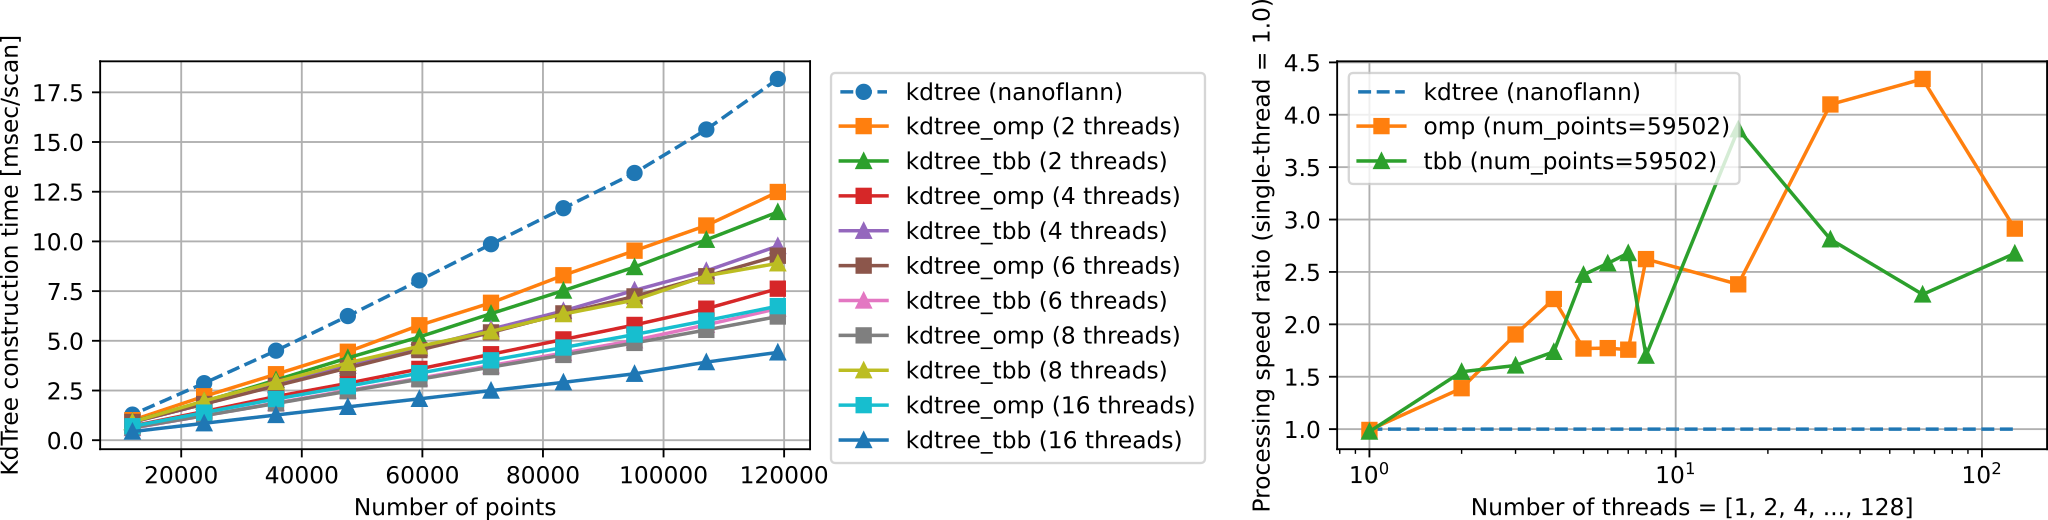
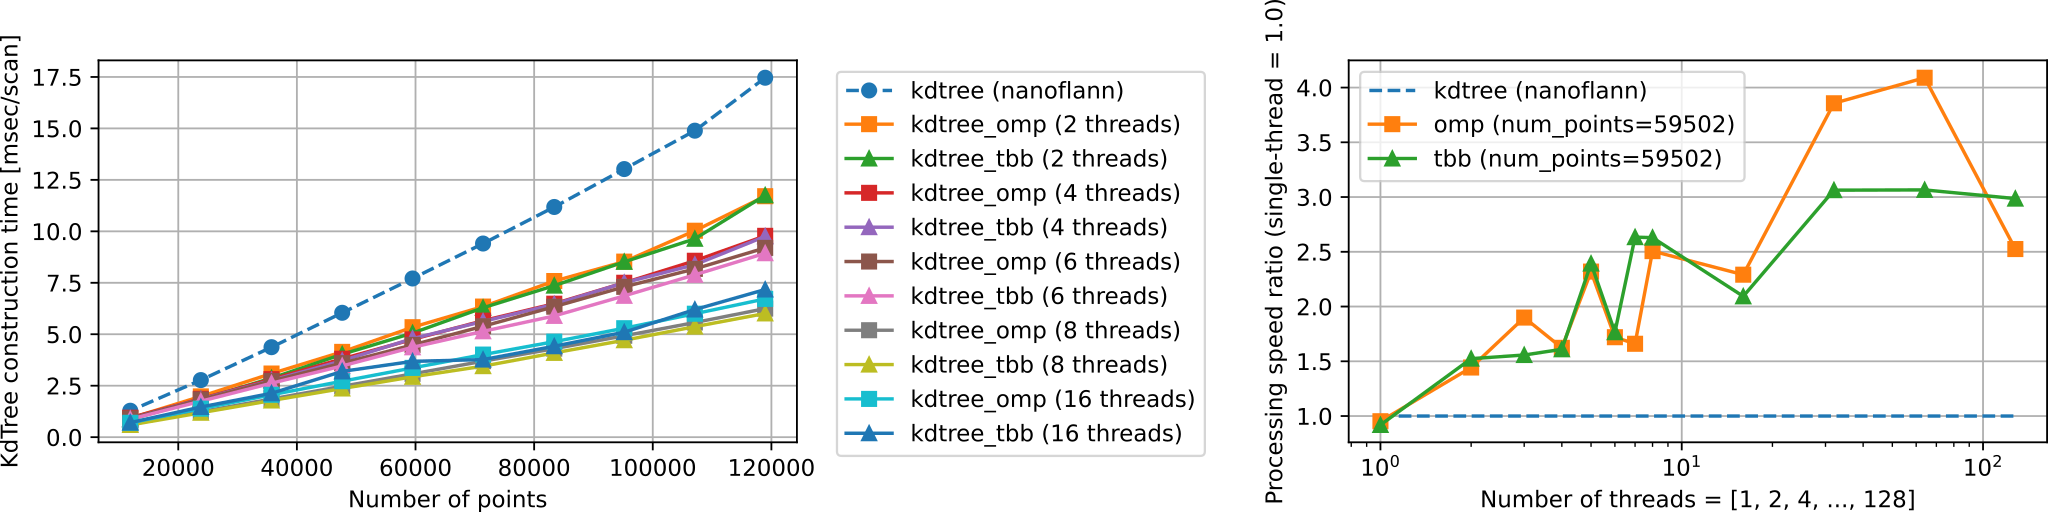
update benchmark_kdtree

Changed region(s): [[0.0, 0.0, 1.0, 1.0], [0.7188, 0.9375, 0.9375, 1.0], [0.8125, 0.875, 0.8438, 0.9375]]

diff --git a/src/kdtree_benchmark.cpp b/src/kdtree_benchmark.cpp
@@ -14,7 +14,7 @@ int main(int argc, char** argv) {
     std::cout << "USAGE: kdtree_benchmark <dataset_path>" << std::endl;
     std::cout << "OPTIONS:" << std::endl;
     std::cout << "  --num_threads <value> (default: 4)" << std::endl;
-    std::cout << "  --downsampling_resolution <value> (default: 0.25)" << std::endl;
+    std::cout << "  --method <str> (small|tbb|omp)" << std::endl;
     return 0;
   }
 
@@ -22,13 +22,16 @@ int main(int argc, char** argv) {
 
   int num_threads = 4;
   int num_trials = 100;
+  std::string method = "small";
 
-  for (int i = 0; i < argc; i++) {
+  for (int i = 1; i < argc; i++) {
     const std::string arg = argv[i];
     if (arg == "--num_threads") {
       num_threads = std::stoi(argv[i + 1]);
     } else if (arg == "--num_trials") {
       num_trials = std::stoi(argv[i + 1]);
+    } else if (arg == "--method") {
+      method = argv[i + 1];
     } else if (arg.size() >= 2 && arg.substr(0, 2) == "--") {
       std::cerr << "unknown option: " << arg << std::endl;
       return 1;
@@ -38,6 +41,7 @@ int main(int argc, char** argv) {
   std::cout << "dataset_path=" << dataset_path << std::endl;
   std::cout << "num_threads=" << num_threads << std::endl;
   std::cout << "num_trials=" << num_trials << std::endl;
+  std::cout << "method=" << method << std::endl;
 
   tbb::global_control tbb_control(tbb::global_control::max_allowed_parallelism, num_threads);
 
@@ -93,55 +97,60 @@ int main(int argc, char** argv) {
   std::cout << "---" << std::endl;
 
   // warmup
-  for (int i = 0; i < 10; i++) {
+  auto t1 = std::chrono::high_resolution_clock::now();
+  while (std::chrono::duration_cast<std::chrono::seconds>(std::chrono::high_resolution_clock::now() - t1).count() < 1) {
     auto downsampled = voxelgrid_sampling(*raw_points, 0.1);
-    UnsafeKdTree<PointCloud> tree(*downsampled);
-    UnsafeKdTreeTBB<PointCloud> tree_tbb(*downsampled);
-    UnsafeKdTreeOMP<PointCloud> tree_omp(*downsampled, num_threads);
+
+    if (method == "small") {
+      UnsafeKdTree<PointCloud> tree(*downsampled);
+    } else if (method == "tbb") {
+      UnsafeKdTreeTBB<PointCloud> tree(*downsampled);
+    } else if (method == "omp") {
+      UnsafeKdTreeOMP<PointCloud> tree(*downsampled, num_threads);
+    }
   }
 
   Stopwatch sw;
-  for (size_t i = 0; i < downsampling_resolutions.size(); i++) {
-    if (num_threads != 1) {
-      break;
+
+  if (method == "small") {
+    for (size_t i = 0; i < downsampling_resolutions.size(); i++) {
+      if (num_threads != 1) {
+        break;
+      }
+
+      Summarizer kdtree_times(true);
+      sw.start();
+      for (size_t j = 0; j < num_trials; j++) {
+        UnsafeKdTree<PointCloud> tree(*downsampled[i]);
+        sw.lap();
+        kdtree_times.push(sw.msec());
+      }
+      std::cout << "kdtree_times=" << kdtree_times.str() << " [msec]" << std::endl;
     }
+  } else if (method == "tbb") {
+    for (size_t i = 0; i < downsampling_resolutions.size(); i++) {
+      Summarizer kdtree_tbb_times(true);
+      sw.start();
+      for (size_t j = 0; j < num_trials; j++) {
+        UnsafeKdTreeTBB<PointCloud> tree(*downsampled[i]);
+        sw.lap();
+        kdtree_tbb_times.push(sw.msec());
+      }
 
-    Summarizer kdtree_times;
-    sw.start();
-    for (size_t j = 0; j < num_trials; j++) {
-      UnsafeKdTree<PointCloud> tree(*downsampled[i]);
-      sw.lap();
-      kdtree_times.push(sw.msec());
+      std::cout << "kdtree_tbb_times=" << kdtree_tbb_times.str() << " [msec]" << std::endl;
     }
-    std::cout << "kdtree_times=" << kdtree_times.str() << " [msec]" << std::endl;
-  }
+  } else if (method == "omp") {
+    for (size_t i = 0; i < downsampling_resolutions.size(); i++) {
+      Summarizer kdtree_omp_times(true);
+      sw.start();
+      for (size_t j = 0; j < num_trials; j++) {
+        UnsafeKdTreeOMP<PointCloud> tree(*downsampled[i], num_threads);
+        sw.lap();
+        kdtree_omp_times.push(sw.msec());
+      }
 
-  std::cout << "---" << std::endl;
-
-  for (size_t i = 0; i < downsampling_resolutions.size(); i++) {
-    Summarizer kdtree_tbb_times;
-    sw.start();
-    for (size_t j = 0; j < num_trials; j++) {
-      UnsafeKdTreeTBB<PointCloud> tree(*downsampled[i]);
-      sw.lap();
-      kdtree_tbb_times.push(sw.msec());
+      std::cout << "kdtree_omp_times=" << kdtree_omp_times.str() << " [msec]" << std::endl;
     }
-
-    std::cout << "kdtree_tbb_times=" << kdtree_tbb_times.str() << " [msec]" << std::endl;
-  }
-
-  std::cout << "---" << std::endl;
-
-  for (size_t i = 0; i < downsampling_resolutions.size(); i++) {
-    Summarizer kdtree_omp_times;
-    sw.start();
-    for (size_t j = 0; j < num_trials; j++) {
-      UnsafeKdTreeOMP<PointCloud> tree(*downsampled[i], num_threads);
-      sw.lap();
-      kdtree_omp_times.push(sw.msec());
-    }
-
-    std::cout << "kdtree_omp_times=" << kdtree_omp_times.str() << " [msec]" << std::endl;
   }
 
   return 0;

diff --git a/scripts/plot_kdtree.py b/scripts/plot_kdtree.py
@@ -38,32 +38,35 @@ def parse_result(filename):
 def main():
   results_path = os.path.dirname(__file__) + '/results'
 
-  results = []  
+  results = {}
   for filename in os.listdir(results_path):
-    matched = re.match(r'kdtree_benchmark_(\d+).txt', filename)
+    matched = re.match(r'kdtree_benchmark_(\S+)_(\d+).txt', filename)
     if not matched:
       continue
 
-    results.append(parse_result(results_path + '/' + filename))
-  
-  results = sorted(results, key=lambda x: x[0])
-  num_threads = [x[0] for x in results]
-  num_points = results[0][1]
+    method = '{}_{}'.format(matched.group(1), matched.group(2))
+    print(method)
 
-  fig, axes = pyplot.subplots(1, 2, figsize=(12, 2))
+    num_threads, num_points, rets = parse_result(results_path + '/' + filename)
+    results[method] = rets[list(rets.keys())[0]] 
+
+  fig, axes = pyplot.subplots(1, 2, figsize=(12, 3))
   
-  axes[0].plot(num_points, results[0][2]['kdtree'], label='kdtree (nanoflann)', marker='o', linestyle='--')
+  num_threads = [1, 2, 3, 4, 5, 6, 7, 8, 16, 32, 64, 128]
+  axes[0].plot(num_points, results['small_1'], label='kdtree (nanoflann)', marker='o', linestyle='--')
   for idx in [1, 3, 5, 7, 8]:
     N = num_threads[idx]
-    axes[0].plot(num_points, results[idx][2]['kdtree_omp'], label='kdtree_omp (%d threads)' % N, marker='s')
-    axes[0].plot(num_points, results[idx][2]['kdtree_tbb'], label='kdtree_tbb (%d threads)' % N, marker='^')
+    axes[0].plot(num_points, results['omp_{}'.format(N)], label='kdtree_omp (%d threads)' % N, marker='s')
+    axes[0].plot(num_points, results['tbb_{}'.format(N)], label='kdtree_tbb (%d threads)' % N, marker='^')
 
-  baseline = numpy.array(results[0][2]['kdtree'])
+  baseline = numpy.array(results['small_1'])
   axes[1].plot([num_threads[0], num_threads[-1]], [1.0, 1.0], label='kdtree (nanoflann)', linestyle='--')
   for idx in [5]:
-    N = num_points[idx]  
-    axes[1].plot(num_threads, baseline[idx] / [x[2]['kdtree_omp'][idx] for x in results], label='omp (num_points=%d)' % N, marker='s')
-    axes[1].plot(num_threads, baseline[idx] / [x[2]['kdtree_tbb'][idx] for x in results], label='tbb (num_points=%d)' % N, marker='^')
+    threads = num_threads[idx]
+    N = num_points[idx]
+    
+    axes[1].plot(num_threads, baseline[idx] / [results['omp_{}'.format(threads)][idx] for threads in num_threads], label='omp (num_points=%d)' % N, marker='s')
+    axes[1].plot(num_threads, baseline[idx] / [results['tbb_{}'.format(threads)][idx] for threads in num_threads], label='tbb (num_points=%d)' % N, marker='^')
 
   axes[1].set_xscale('log')
    

diff --git a/include/small_gicp/benchmark/benchmark.hpp b/include/small_gicp/benchmark/benchmark.hpp
@@ -3,6 +3,7 @@
 #pragma once
 
 #include <chrono>
+#include <deque>
 #include <vector>
 #include <numeric>
 #include <algorithm>
@@ -33,13 +34,15 @@ public:
 
 struct Summarizer {
 public:
-  Summarizer() : num_data(0), sum(0.0), sq_sum(0.0), last_x(0.0) {}
+  Summarizer(bool full_log = false) : full_log(full_log), num_data(0), sum(0.0), sq_sum(0.0), last_x(0.0) {}
 
   void push(double x) {
     num_data++;
     sum += x;
     sq_sum += x * x;
     last_x = x;
+
+    full_data.emplace_back(x);
   }
 
   std::pair<double, double> mean_std() const {
@@ -48,14 +51,33 @@ public:
     return {mean, std::sqrt(var)};
   }
 
+  double median() const {
+    if (!full_log || full_data.empty()) {
+      return std::nan("");
+    }
+
+    std::vector<double> sorted(full_data.begin(), full_data.end());
+    std::ranges::nth_element(sorted, sorted.begin() + sorted.size() / 2);
+    return sorted[sorted.size() / 2];
+  }
+
   double last() const { return last_x; }
 
   std::string str() const {
+    if (full_log) {
+      const auto [mean, std] = mean_std();
+      const double med = median();
+      return fmt::format("{:.3f} +- {:.3f} (median={:.3f})", mean, std, med);
+    }
+
     const auto [mean, std] = mean_std();
     return fmt::format("{:.3f} +- {:.3f} (last={:.3f})", mean, std, last_x);
   }
 
 private:
+  bool full_log;
+  std::deque<double> full_data;
+
   size_t num_data;
   double sum;
   double sq_sum;

diff --git a/README.md b/README.md
@@ -5,8 +5,8 @@
 - **Highly Optimized** : The implementation of the core registration algorithm is further optimized from that in fast_gicp. It enables up to **2x speed gain** compared to fast_gicp.
 - **All parallerized** : small_gicp offers parallelized implementations of several preprocessing algorithms to make the entire registration process parallelized (Downsampling, KdTree construction, Normal/covariance estimation). As a parallelism backend, either (or both) of [OpenMP](https://www.openmp.org/) and [Intel TBB](https://github.com/oneapi-src/oneTBB) can be used. 
 - **Minimum dependency** : Only [Eigen](https://eigen.tuxfamily.org/) (and bundled [nanoflann](https://github.com/jlblancoc/nanoflann) and [Sophus](https://github.com/strasdat/Sophus)) are required at a minimum. Optionally, it provides the [PCL](https://pointclouds.org/) registration interface so that it can be used as a drop-in replacement in many systems.
-- **Customizable** : small_gicp is implemented with the trait mechanism that enables feeding any custom point cloud class to the registration algorithm. Furthermore, the template-based implementation allows customizing the regisration process with your original correspondence estimator and registration factors.
-- **Python bindinds** : The isolation from PCL makes small_gicp's python bindinds more portable and connectable to other libraries seamlessly. 
+- **Customizable** : small_gicp allows feeding any custom point cloud class to the registration algorithm via traits. Furthermore, the template-based implementation enables customizing the regisration process with your original correspondence estimator and registration factors.
+- **Python bindinds** : The isolation from PCL makes small_gicp's python bindinds more portable and connectable to other libraries (e.g., Open3D) without problems. 
 
 Note that GPU-based implementations are NOT included in this package.
 
@@ -27,7 +27,7 @@ This library uses some C++20 features. While porting it to older environments sh
 
 small_gicp is a header-only library. You can just download and drop it in your project directory to use it.
 
-Meanwhile, if you need only basic point cloud registration, you can build and install the helper library as follows.
+If you need only basic point cloud registration functions, you can build and install the helper library as follows.
 
 ```bash
 sudo apt-get install libeigen3-dev libomp-dev
@@ -60,7 +60,7 @@ The following examples assume `using namespace small_gicp` is placed somewhere.
 The helper library (`registration_helper.hpp`) enables easily processing point clouds represented as `std::vector<Eigen::Vector(3|4)(f|d)>`.
 <details><summary>Expand</summary>
 
-`small_gicp::align` takes two point clouds (`std::vectors` of `Eigen::Vector(3|4)(f|d)`) and returns a registration result (estimated transformation and some information on the optimization result). This is the easiest way to use **small_gicp** but causes an overhead for duplicated preprocessing.
+`small_gicp::align` takes two point clouds (`std::vectors` of `Eigen::Vector(3|4)(f|d)`) and returns a registration result (estimated transformation and some information on the optimization result). This is the easiest way to use small_gicp but causes an overhead for duplicated preprocessing.
 
 ```cpp
 #include <small_gicp/registration/registration_helper.hpp>
@@ -111,9 +111,9 @@ Eigen::Matrix<double, 6, 6> H = result.H;      // Final Hessian matrix (6x6)
 
 </details>
 
-### Using with PCL interface ([02_basic_resigtration_pcl.cpp](src/example/02_basic_resigtration_pcl.cpp))
+### Using PCL interface ([02_basic_resigtration_pcl.cpp](src/example/02_basic_resigtration_pcl.cpp))
 
-The PCL interface allows using small_gicp as a drop-in replacement for `pcl::GeneralizedIterativeClosestPoint`. It is also possible to directly feed `pcl::PointCloud` to algorithms implemented in small_gicp.
+The PCL interface allows using small_gicp as a drop-in replacement for `pcl::Registration`. It is also possible to directly feed `pcl::PointCloud` to algorithms implemented in small_gicp.
 
 <details><summary>Expand</summary>
 
@@ -233,7 +233,7 @@ size_t num_inliers = result.num_inliers;       // Number of inlier source points
 Eigen::Matrix<double, 6, 6> H = result.H;      // Final Hessian matrix (6x6)
 ```
 
-See [03_registration_template.cpp](src/example/03_registration_template.cpp)  for more detailed customization example.
+See [03_registration_template.cpp](src/example/03_registration_template.cpp)  for more detailed customization examples.
 
 </details>
 
